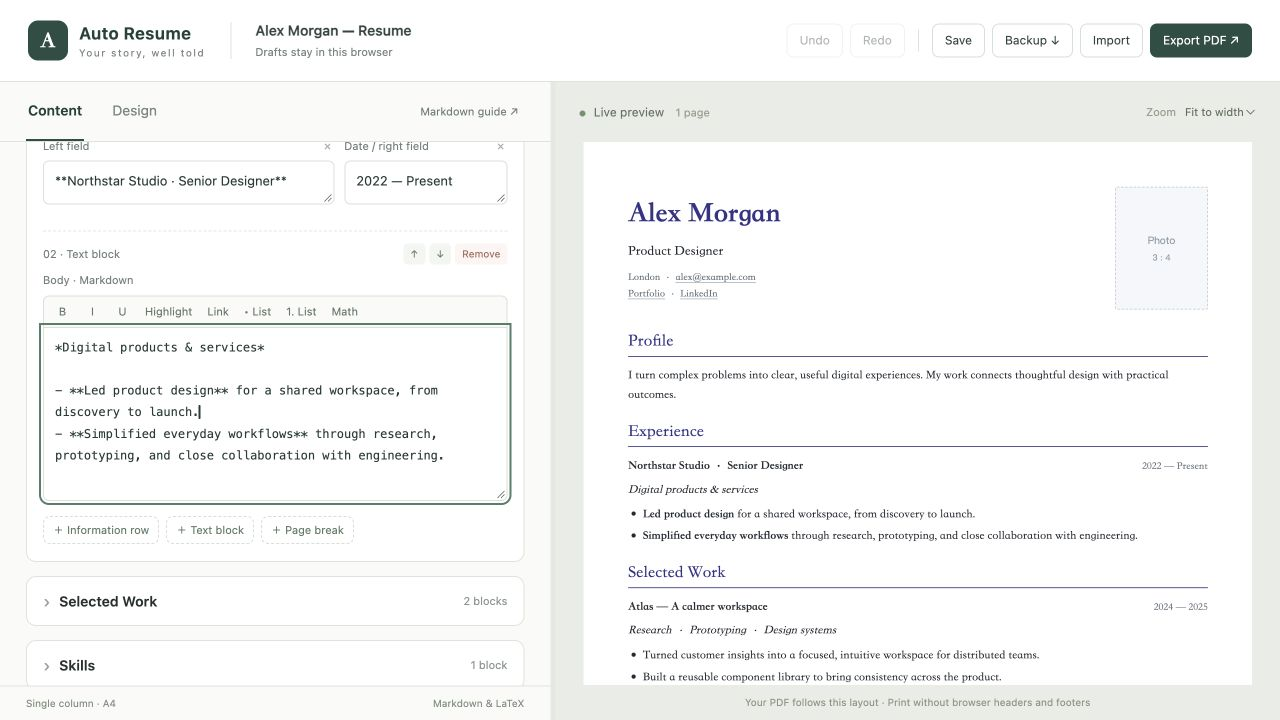
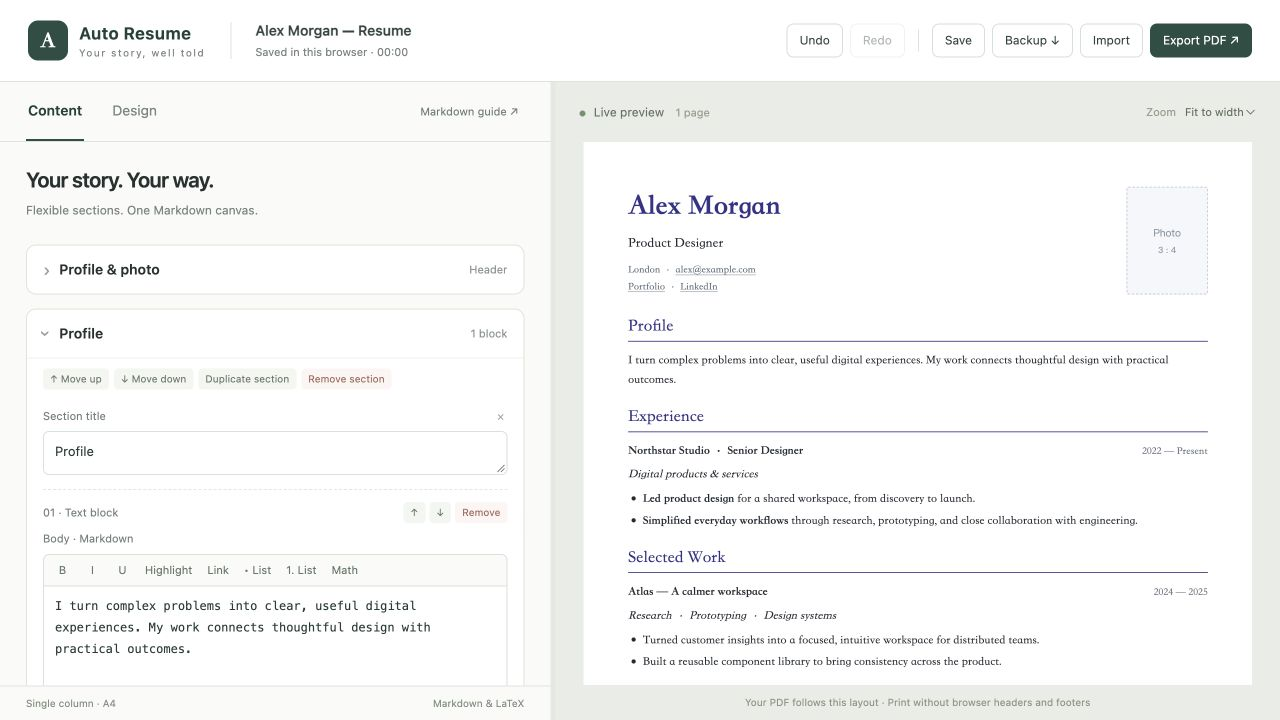
feat: fit photos to header content with a minimum height

diff --git a/src/app.js b/src/app.js
@@ -2,6 +2,7 @@ import DOMPurify from 'dompurify';
 import html2canvas from 'html2canvas';
 import { jsPDF } from 'jspdf';
 import { renderMarkdown } from './markdown.js';
+import { fitHeaderPhoto } from './photo-layout.js';
 import {
   STORAGE_KEY,
   clone,
@@ -208,7 +209,10 @@ function renderDesign() {
   )}${select('photoShape', 'Photo shape', [
     ['square', '3 : 4 rectangle'],
     ['round', 'Circle'],
-  ])}${slider('photoWidth', 'Photo width', 20, 40, 1, ' mm')}<p class="muted">Photos are cropped from the center. Replace or remove the photo in Content.</p></div><button id="reset-design">Reset layout</button>`;
+  ])}${select('photoSizing', 'Photo sizing', [
+    ['auto', 'Match header height'],
+    ['fixed', 'Fixed width'],
+  ])}${doc.settings.photoSizing === 'auto' ? slider('photoMinHeight', 'Minimum photo height', 20, 40, 1, ' mm') : slider('photoWidth', 'Photo width', 20, 40, 1, ' mm')}<p class="muted">Auto sizing follows the visible header content, with a minimum height. Photos keep their shape and are cropped from the center.</p></div><button id="reset-design">Reset layout</button>`;
 }
 function renderAll() {
   renderEditor();
@@ -331,6 +335,7 @@ document.addEventListener('input', (event) => {
     doc.settings[el.dataset.setting] = el.type === 'range' ? Number(el.value) : el.value;
     if ($('out-' + el.dataset.setting))
       $('out-' + el.dataset.setting).textContent = el.value + (el.dataset.unit || '');
+    if (el.dataset.setting === 'photoSizing') renderDesign();
     changed();
   }
 });
@@ -465,7 +470,15 @@ document.addEventListener('keydown', (event) => {
 
 function resumeMarkup() {
   const s = doc.settings,
-    header = `<header class="cv-header ${doc.header.photoHidden ? 'without-photo' : ''} ${s.photoSide === 'left' ? 'photo-left' : ''}"><div class="header-fields">${doc.header.fields.map((f) => `<div class="${f.kind === 'name' ? 'cv-name' : f.kind === 'contact' ? 'cv-contact' : 'cv-headline'}">${md(f.text)}</div>`).join('')}</div>${doc.header.photoHidden ? '' : doc.header.photo ? `<img class="cv-photo ${s.photoShape === 'round' ? 'round' : ''}" src="${doc.header.photo}" alt="Profile photo">` : `<div class="cv-photo photo-placeholder ${s.photoShape === 'round' ? 'round' : ''}"><span>Photo</span><small>3 : 4</small></div>`}</header>`;
+    header = `<header class="cv-header ${doc.header.photoHidden ? 'without-photo' : ''} ${s.photoSide === 'left' ? 'photo-left' : ''}"><div class="header-fields">${doc.header.fields
+      .filter((f) => f.text.trim())
+      .map(
+        (f) =>
+          `<div class="${f.kind === 'name' ? 'cv-name' : f.kind === 'contact' ? 'cv-contact' : 'cv-headline'}">${md(f.text)}</div>`,
+      )
+      .join(
+        '',
+      )}</div>${doc.header.photoHidden ? '' : doc.header.photo ? `<img class="cv-photo ${s.photoShape === 'round' ? 'round' : ''}" src="${doc.header.photo}" alt="Profile photo">` : `<div class="cv-photo photo-placeholder ${s.photoShape === 'round' ? 'round' : ''}"><span>Photo</span><small>3 : 4</small></div>`}</header>`;
   return `<main class="cv">${header}${doc.sections.map((section) => `<section class="cv-section">${section.title !== null ? `<div class="section-title">${md(section.title)}</div>` : ''}${section.blocks.map((b) => (b.type === 'row' ? `<div class="cv-row">${b.left !== null ? `<div class="row-left">${md(b.left)}</div>` : ''}${b.right !== null ? `<div class="row-right">${md(b.right)}</div>` : ''}</div>` : b.type === 'break' ? '<div class="page-break"></div>' : `<div class="cv-text">${md(b.text)}</div>`)).join('')}</section>`).join('')}</main>`;
 }
 function designCss() {
@@ -474,7 +487,7 @@ function designCss() {
     s.font === 'sans'
       ? '"PingFang SC","Microsoft YaHei","Noto Sans CJK SC",sans-serif'
       : '"Songti SC","STSong","Noto Serif CJK SC","SimSun",serif';
-  return `@page{size:A4;margin:${s.margin}mm}.cv{font-family:${font};font-size:${s.fontSize}px;line-height:${s.lineHeight}}.cv-name{font-size:${s.nameSize}px;color:${s.accent}}.section-title{font-size:${s.titleSize}px!important;color:${s.accent};border-color:${s.accent}}.cv-section{margin-bottom:${s.sectionGap}px}.cv p{margin-bottom:${s.paragraphGap}px}.cv p:last-child{margin-bottom:0}.cv-text{margin-bottom:${s.paragraphGap}px}.cv li{margin-top:${s.listGap}px;margin-bottom:${s.listGap}px}.cv-header{grid-template-columns:minmax(0,1fr) ${s.photoWidth}mm;margin-bottom:${s.headerGap}px}.cv-header.photo-left{grid-template-columns:${s.photoWidth}mm minmax(0,1fr)}.cv-photo{width:${s.photoWidth}mm}`;
+  return `@page{size:A4;margin:${s.margin}mm}.cv{font-family:${font};font-size:${s.fontSize}px;line-height:${s.lineHeight}}.cv-name{font-size:${s.nameSize}px;color:${s.accent}}.section-title{font-size:${s.titleSize}px!important;color:${s.accent};border-color:${s.accent}}.cv-section{margin-bottom:${s.sectionGap}px}.cv p{margin-bottom:${s.paragraphGap}px}.cv p:last-child{margin-bottom:0}.cv-text{margin-bottom:${s.paragraphGap}px}.cv li{margin-top:${s.listGap}px;margin-bottom:${s.listGap}px}.cv-header{--photo-width:${s.photoWidth}mm;grid-template-columns:minmax(0,1fr) var(--photo-width);margin-bottom:${s.headerGap}px}.cv-header.photo-left{grid-template-columns:var(--photo-width) minmax(0,1fr)}.cv-photo{width:var(--photo-width);height:var(--photo-height,auto)}`;
 }
 function schedulePreview(delay = 450) {
   clearTimeout(previewTimer);
@@ -487,9 +500,9 @@ function renderPreview() {
     html = resumeMarkup(),
     css = designCss();
   $('page-count').textContent = 'Preparing…';
-  const script = `(async()=>{try{await document.fonts.ready;const previewer=new Paged.Previewer();const flow=await previewer.preview(document.getElementById('source').innerHTML,[${JSON.stringify(base + 'resume.css')},{'resume-dynamic.css':${JSON.stringify(css)}}],document.getElementById('pages'));await document.fonts.ready;parent.postMessage({type:'resume-preview-ready',revision:${rev},pages:flow.total,height:document.getElementById('pages').scrollHeight},${JSON.stringify(location.origin)});}catch(error){parent.postMessage({type:'resume-preview-error',revision:${rev},message:String(error)},${JSON.stringify(location.origin)});}})();`;
+  const script = `(async()=>{try{await (${fitHeaderPhoto.toString()})(document.getElementById('source'),${JSON.stringify(doc.settings)});await document.fonts.ready;const previewer=new Paged.Previewer();const flow=await previewer.preview(document.getElementById('source').innerHTML,[${JSON.stringify(base + 'resume.css')},{'resume-dynamic.css':${JSON.stringify(css)}}],document.getElementById('pages'));await document.fonts.ready;parent.postMessage({type:'resume-preview-ready',revision:${rev},pages:flow.total,height:document.getElementById('pages').scrollHeight},${JSON.stringify(location.origin)});}catch(error){parent.postMessage({type:'resume-preview-error',revision:${rev},message:String(error)},${JSON.stringify(location.origin)});}})();`;
   $('preview').srcdoc =
-    `<!doctype html><html lang="en"><head><meta charset="utf-8"><base href="${esc(base)}"><title>${esc(filename())}</title><link rel="stylesheet" href="vendor/katex.min.css"><style>html,body{margin:0;background:transparent}body{width:794px}.pagedjs_page{background:white;margin:0 0 18px;box-shadow:0 3px 14px #20372814}.pagedjs_page:last-child{margin-bottom:0}@media print{html,body{width:auto;background:white}.pagedjs_page{margin:0!important;box-shadow:none!important;break-after:page}.pagedjs_page:last-child{break-after:auto}*{-webkit-print-color-adjust:exact!important;print-color-adjust:exact!important}}</style><script>window.PagedConfig={auto:false};<\/script><script src="vendor/paged.polyfill.js"><\/script></head><body><template id="source">${html}</template><div id="pages"></div><script>${script}<\/script></body></html>`;
+    `<!doctype html><html lang="en"><head><meta charset="utf-8"><base href="${esc(base)}"><title>${esc(filename())}</title><link rel="stylesheet" href="vendor/katex.min.css"><link rel="stylesheet" href="resume.css"><style>${css}</style><style>html,body{margin:0;background:transparent}body{width:794px}.pagedjs_page{background:white;margin:0 0 18px;box-shadow:0 3px 14px #20372814}.pagedjs_page:last-child{margin-bottom:0}@media print{html,body{width:auto;background:white}.pagedjs_page{margin:0!important;box-shadow:none!important;break-after:page}.pagedjs_page:last-child{break-after:auto}*{-webkit-print-color-adjust:exact!important;print-color-adjust:exact!important}}</style><script>window.PagedConfig={auto:false};<\/script><script src="vendor/paged.polyfill.js"><\/script></head><body><template id="source">${html}</template><div id="pages"></div><script>${script}<\/script></body></html>`;
 }
 window.addEventListener('message', (event) => {
   if (event.source !== $('preview').contentWindow) return;

diff --git a/src/photo-layout.js b/src/photo-layout.js
@@ -1,0 +1,39 @@
+// Runs inside the preview iframe before pagination. Keep this function self-contained:
+// the editor serializes it into the iframe, whose styles match the exported pages.
+export async function fitHeaderPhoto(source, settings) {
+  const header = source.content.querySelector('.cv-header');
+  if (!header || header.classList.contains('without-photo') || settings.photoSizing !== 'auto')
+    return;
+
+  const pxPerMm = 96 / 25.4;
+  const minimum = settings.photoMinHeight * pxPerMm;
+  const ratio = settings.photoShape === 'round' ? 1 : 3 / 4;
+  const measure = document.createElement('div');
+  measure.className = 'cv';
+  measure.setAttribute('aria-hidden', 'true');
+  measure.style.cssText = `position:absolute;left:-10000px;top:0;visibility:hidden;width:${(210 - settings.margin * 2) * pxPerMm}px`;
+  const copy = header.cloneNode(true);
+  measure.append(copy);
+  document.body.append(measure);
+  try {
+    await document.fonts.ready;
+    // Keep unusually long headers from letting the photo consume the text column.
+    const maximum = Math.max(minimum, (measure.getBoundingClientRect().width * 0.4) / ratio);
+    let height = minimum;
+    const size = (element, value) => {
+      element.style.setProperty('--photo-width', `${value * ratio}px`);
+      element.style.setProperty('--photo-height', `${value}px`);
+    };
+    // Photo width affects wrapping, so start small and settle before paginating.
+    for (let pass = 0; pass < 12; pass++) {
+      size(copy, height);
+      const textHeight = copy.querySelector('.header-fields').getBoundingClientRect().height;
+      const next = Math.min(maximum, Math.max(minimum, textHeight));
+      if (Math.abs(next - height) < 0.25) break;
+      height = next;
+    }
+    size(header, height);
+  } finally {
+    measure.remove();
+  }
+}

diff --git a/src/model.js b/src/model.js
@@ -14,6 +14,8 @@ export const defaults = {
   listGap: 3,
   accent: '#353387',
   photoWidth: 29,
+  photoSizing: 'auto',
+  photoMinHeight: 28,
   photoSide: 'right',
   photoShape: 'square',
 };
@@ -145,6 +147,7 @@ export function normalizeDocument(input) {
     paragraphGap: [0, 16],
     listGap: [0, 12],
     photoWidth: [20, 40],
+    photoMinHeight: [20, 40],
   };
   for (const [key, [lo, hi]] of Object.entries(bounds))
     settings[key] = clamp(raw[key] ?? defaults[key], lo, hi, defaults[key]);
@@ -152,6 +155,7 @@ export function normalizeDocument(input) {
   if (/^#[0-9a-f]{6}$/i.test(raw.accent)) settings.accent = raw.accent;
   if (['left', 'right'].includes(raw.photoSide)) settings.photoSide = raw.photoSide;
   if (['square', 'round'].includes(raw.photoShape)) settings.photoShape = raw.photoShape;
+  if (['auto', 'fixed'].includes(raw.photoSizing)) settings.photoSizing = raw.photoSizing;
   const photo =
     typeof input.header.photo === 'string' &&
     input.header.photo.length < 3000000 &&

diff --git a/public/resume.css b/public/resume.css
@@ -140,6 +140,13 @@ body {
 }
 .header-fields {
   min-width: 0;
+  display: flow-root;
+}
+.header-fields > :first-child {
+  margin-top: 0;
+}
+.header-fields > :last-child {
+  margin-bottom: 0;
 }
 .cv-name {
   font-size: 34px;

diff --git a/README.md b/README.md
@@ -10,7 +10,7 @@ A minimal résumé editor with Markdown, flexible sections, and live A4 previews
 
 - **Flexible structure** — Add, rearrange, or remove sections and individual fields.
 - **Expressive writing** — Markdown, links, lists, highlights, and mathematical notation.
-- **Precise layout** — Fine-tune fonts, header and section spacing, margins, and photos with automatic pagination.
+- **Precise layout** — Fine-tune typography and spacing, with adaptive photos and automatic pagination.
 - **Portable drafts** — Automatic browser saves, undo and redo, and complete JSON backups.
 - **PDF export** — Print to a text PDF, or download an image PDF directly.
 
